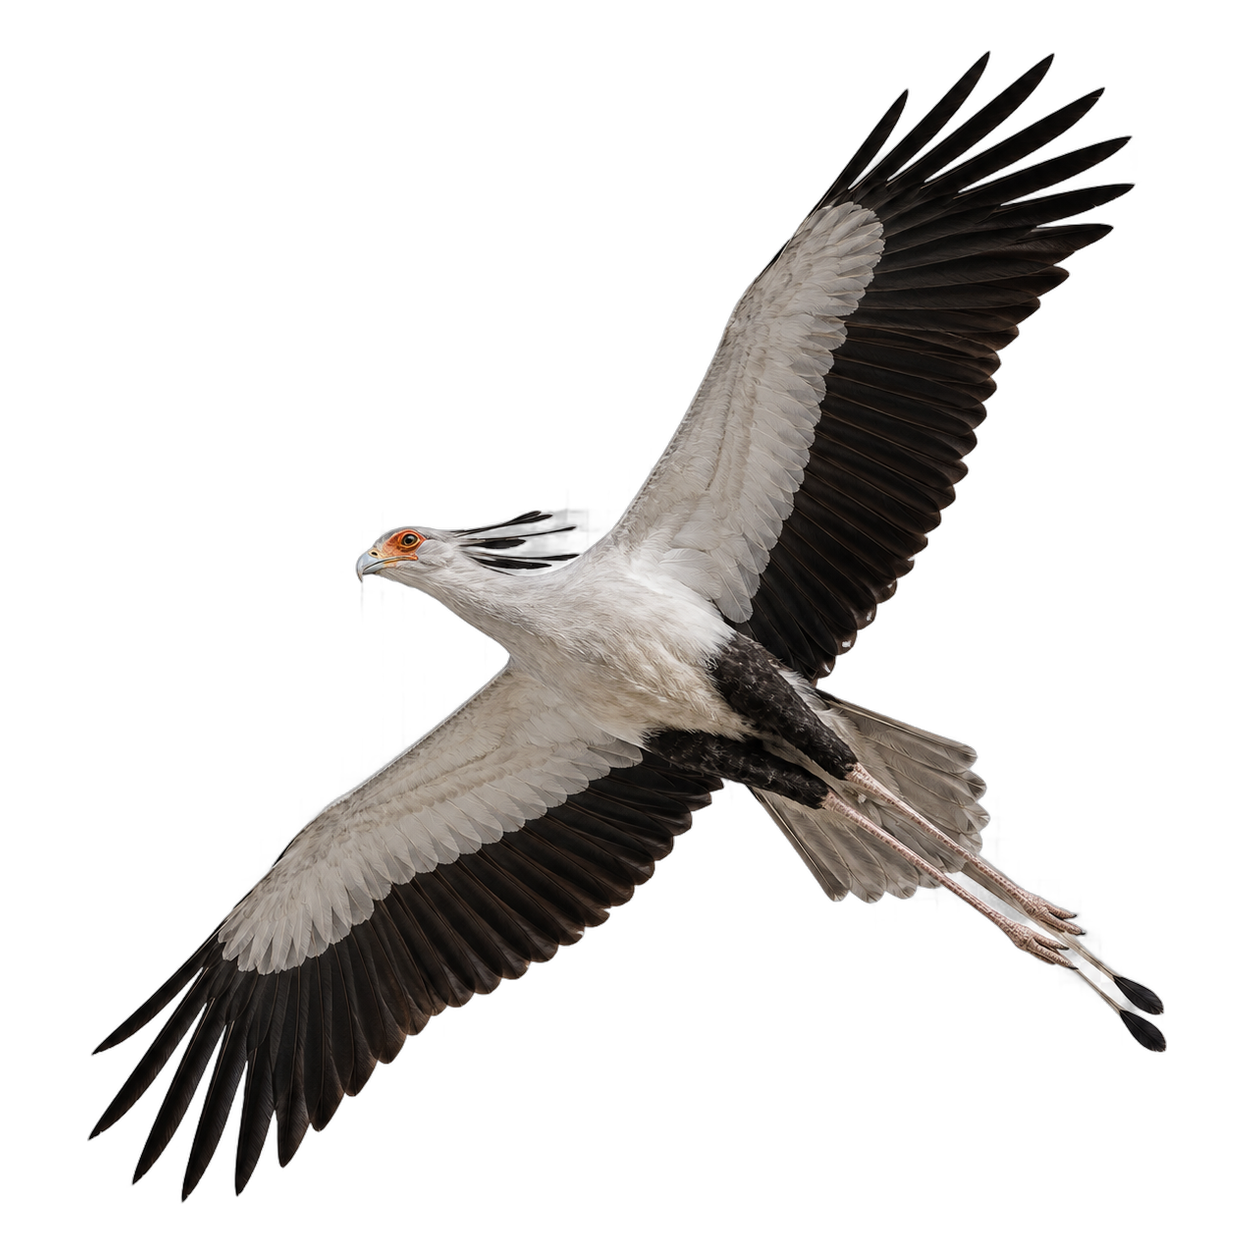
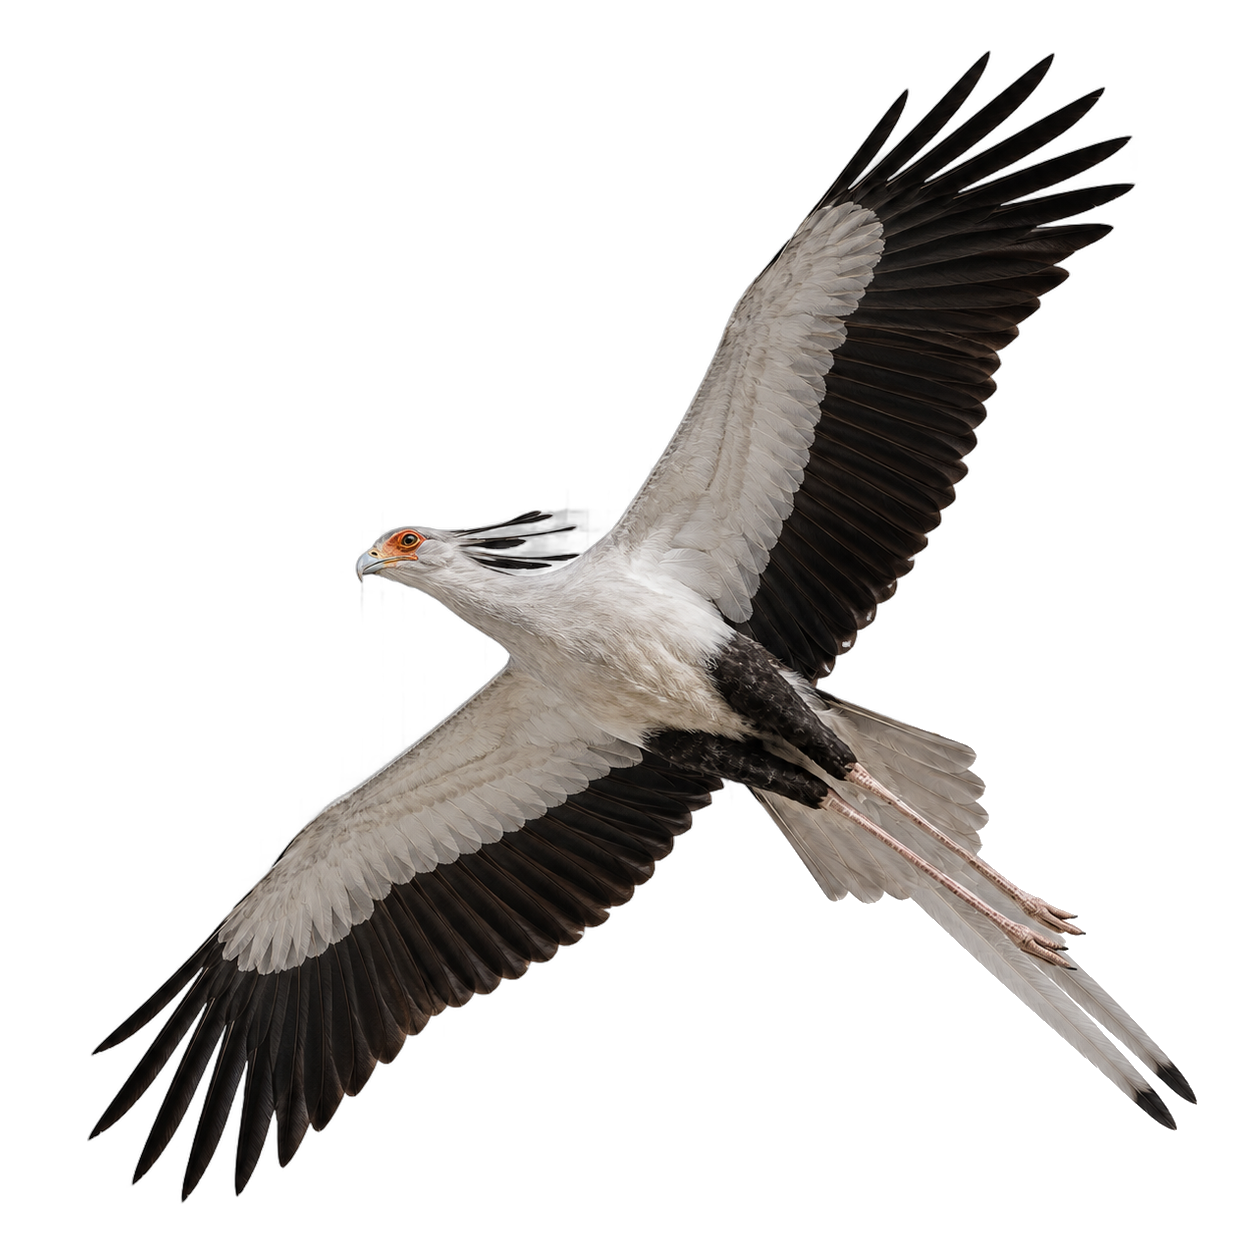
Correct secretarybird tail feathers and align juvenile artwork

Changed region(s): [[0.622, 0.5598, 0.9641, 0.9019]]

diff --git a/lib/bird-images.ts b/lib/bird-images.ts
@@ -77,5 +77,5 @@ export const birdImages: Record<string, string> = {
   'juvenile-andenkondor': '/birds/andenkondor-juvenile-20260907-v3.png',
   wespenbussard: '/birds/wespenbussard-20260907.png',
   bartgeier: '/birds/bartgeier-20260907.png',
-  'juvenile-sekretaer': '/birds/juvenile-sekretaer.png?v=85869a30b595',
+  'juvenile-sekretaer': '/birds/juvenile-sekretaer-20260907.png',
 };
